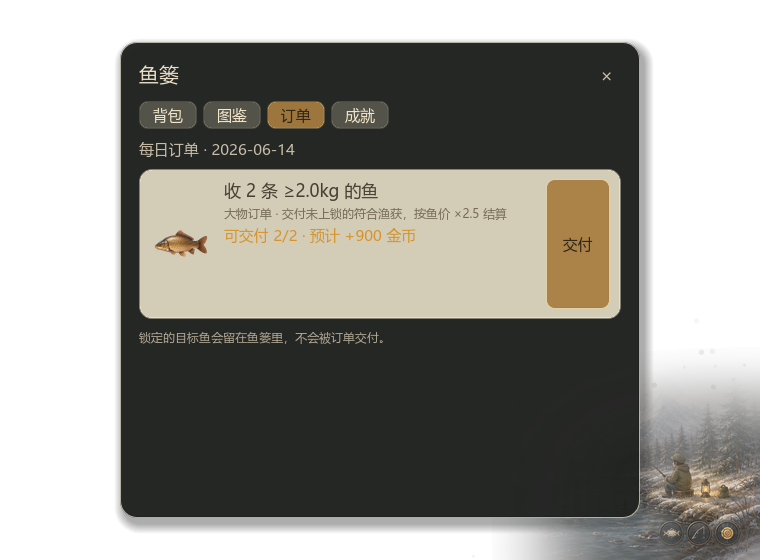
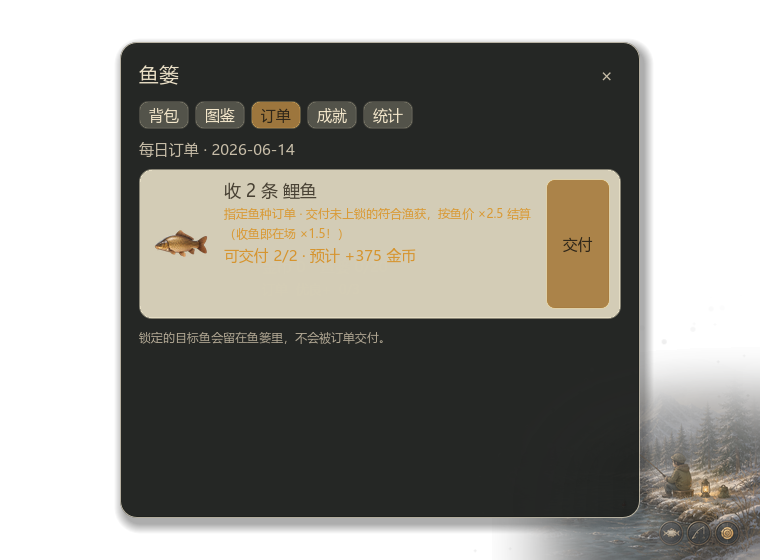
通宵⑫ 鱼贩×订单联动（黄金时刻）
- 收鱼郎在场时，每日订单结算在 ×2.5 基础上再 ×1.5（_daily_order_reward 叠加 MERCHANT_MULT）
- 订单页 desc 琥珀色标明「收鱼郎在场 ×1.5！」，预计奖励/完成 toast 同步反映
- 两个限时系统（鱼贩/订单）叠加成黄金时刻，鼓励攒着订单鱼等收鱼郎
- 回归新增联动用例（125→188），0 失败

Changed region(s): [[0.2724, 0.3036, 0.6961, 0.4857], [0.1816, 0.1821, 0.5447, 0.2429]]

diff --git a/docs/overnight-summary-20260614.md b/docs/overnight-summary-20260614.md
@@ -18,6 +18,7 @@
 | 9 | **鱼汛限时事件** 随机时段咬钩更勤 + 大鱼概率大增 + HUD 蓝标 | 宠物游戏流星雨 / 限时高潮 | `25b2164` |
 | 10 | **统计页** 鱼篓第5页签：终身渔获/收入/图鉴/成就/最高品相/最大渔获/装备 看板 | idle 游戏成长看板 | 见 git |
 | 11 | **更多成就线** +6 项里程碑（高渔获/财富/竿满/篓满/两档大物重量），共 23 项 | idle 长期目标 | 见 git |
+| 12 | **鱼贩×订单联动** 收鱼郎在场时订单结算再 ×1.5（黄金时刻），订单页+提示标明 | 双限时系统叠加彩蛋 | 见 git |
 | — | 调研文档（6 方向）+ README/白皮书/美术需求 + 本总结 全面同步 | — | `e2dc11b` `508fec4` `108038f` |
 
 > 另：睡前基线提交 `97bde8f` 本身是「离线小结面板」（回屏弹时长/渔获/最值钱一条/合计可卖）。